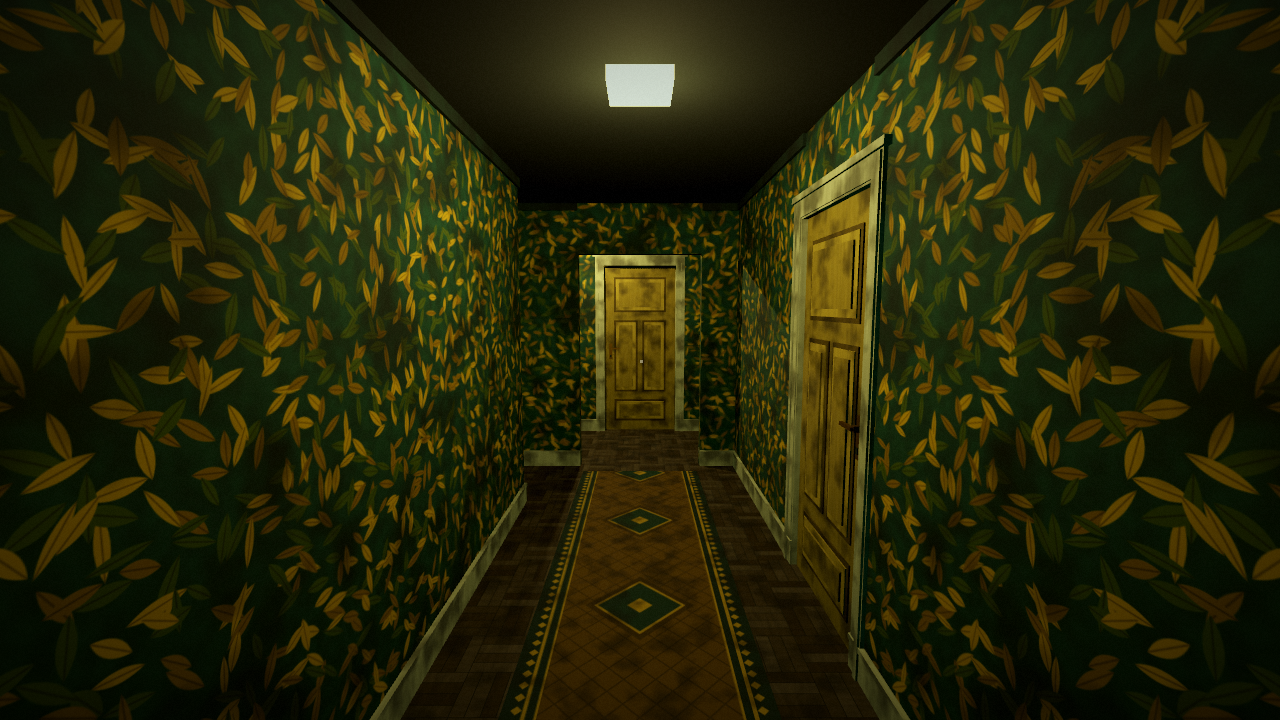
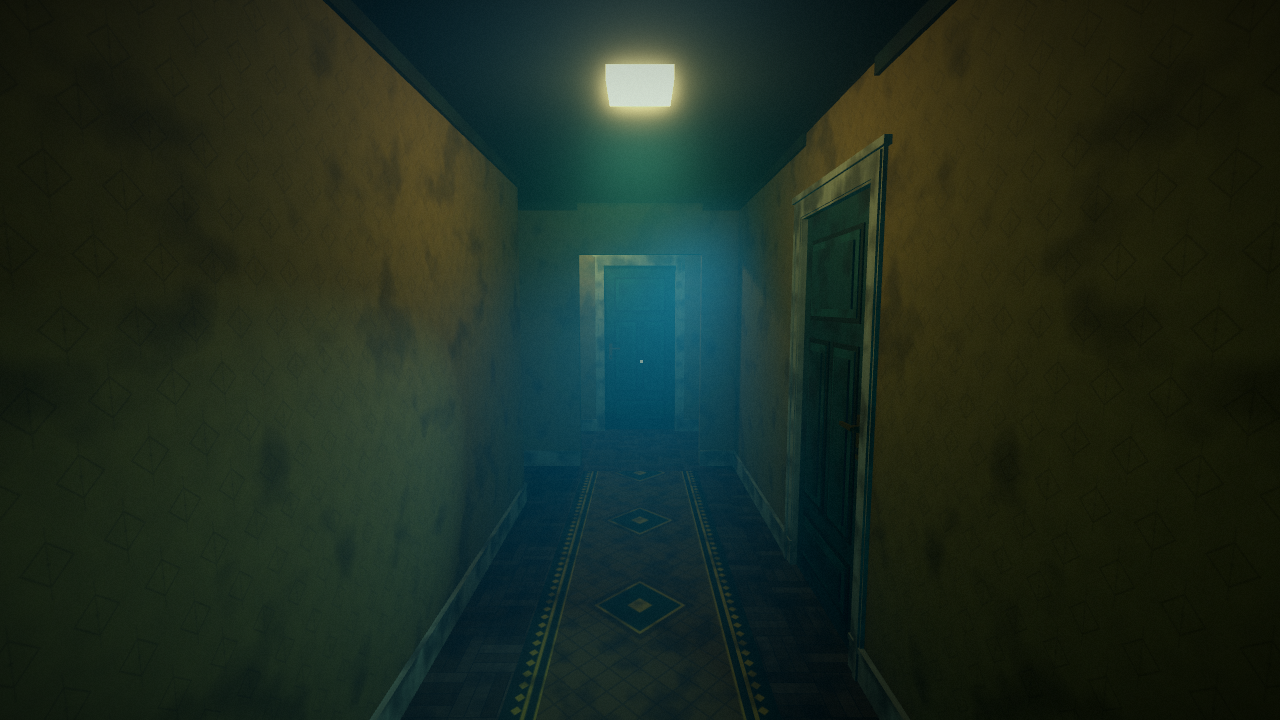
art: plain wallpaper, teal doors, volumetric haze, light shafts, glow and SSAO

diff --git a/docs/DecisionLog.md b/docs/DecisionLog.md
@@ -22,6 +22,7 @@ Durumlar: **Onaylı** (proje sahibi onayladı) · **Varsayım** (itiraz gelene k
 | K-011 | 2026-11-16 | **Melez sunum: koridorlar 3D, odalar 2D.** Oyuncu giriş holü, hol, merdiven, sahanlık ve üst koridorda birinci şahıs yürür. Bir odanın kapısıyla etkileşince oda, çizilmiş 2D bir sahne olarak açılır; karakterler ve değişen eşyalar bu sahnenin üstüne katman olarak eklenir. Karakterler 2D çizimdir. **Özgün spesifikasyonun "tam 3D, 2D oda yok, 2D portre yok" maddelerinin (bölüm 20, 60, 75) yerini alır.** K-008, K-009'un karakter kısmı, K-010 ve V-016 geçersizdir. | Proje sahibinin kararı: hedeflenen görünüme 2D ile ulaşmak mümkün, 3D karakter ve oda üretimi tek kişi için fazla ağır. |
 | K-012 | 2026-11-16 | **Renk teması:** koyu, kirli yeşil ve hafif turkuaz; vurgu olarak kirli sarı. Görüntü net ve doygun; ağır pikselleşme yok. | Proje sahibinin referans görselleri ve tarifi. |
 | K-013 | 2026-11-16 | **Görüntü pürüzsüzdür; pikselli/PS1 görünümü yok.** Dokular yüksek çözünürlüklü (512–1024) ve yumuşak süzmeli; ekran pikselleştirmesi ve renk kademelenmesi kapalı; kenar yumuşatma açık. Kapı, kasa, süpürgelik gibi ayrıntılar gerçek çıkıntılı geometridir. Özgün spesifikasyonun "PS1/düşük çözünürlüklü doku" maddelerinin (bölüm 20, 26) yerini alır. | Proje sahibi iki kez pikselli görünümü reddetti; referans görselleri pürüzsüz. |
+| K-014 | 2026-11-16 | **Atmosfer ışıkla kurulur, desenle değil.** Duvarlar tek renk ya da çok sade desenli; görünümü turkuaz hacimli sis, ışık huzmeleri, yumuşak gölgeler ve zayıf sıcak lambalar taşır. Uygulanan palet: kirli sarı duvar, koyu turkuaz kapı, turkuaz pus (K-012 ile uyumlu). | Proje sahibinin üçüncü referans görseli ve tarifi. |
 
 ## Varsayımlar
 

diff --git a/docs/ArtBible.md b/docs/ArtBible.md
@@ -28,7 +28,9 @@ Bu yapı sayesinde aynı oda görseli, içine kim girerse girsin ve ne değişir
 
 Koddan kurulur (`scripts/house/house_builder.gd`). Dokular `assets/textures/` altında PNG dosyalarıdır; şimdilik `scripts/art/texture_generator.gd` üretir. Aynı adla boyanmış bir doku koyulursa oyun onu kullanır.
 
-Mevcut öğeler: yaprak desenli yeşil duvar kâğıdı, çıkıntılı süpürgelik ve tavan altı koyu çıta, koyu parke, kademeli panelli kirli sarı kapılar, kademeli kapı kasaları, pirinç kapı kolları, desenli yolluk halı, düz tavan lambaları.
+Mevcut öğeler: sade, kirli sarı duvar kâğıdı (çok silik baklava deseni), çıkıntılı süpürgelik ve tavan altı koyu çıta, koyu parke, kademeli panelli koyu turkuaz kapılar, soluk kademeli kasalar, pirinç kapı kolları, desenli yolluk halı, tavan lambaları.
+
+**Işık ve atmosfer (proje sahibinin üçüncü referansına göre):** ortam soğuk turkuaz bir pusla doludur ve ışık bu pusun içinde görünür (hacimli sis). Tavan lambaları zayıf, sıcak ışık adacıkları yapar; her katta pusun içinden geçen soğuk bir ışık huzmesi vardır. Yumuşak gölge, köşelerde temas gölgesi ve parlak yüzeylerde hafif parlama açıktır. Duvarlar sade tutulur; görünümü taşıyan şey desen değil ışıktır.
 
 Eksikler: gerçek basamaklı merdiven, pencere, koridor eşyaları (portmanto, ayna, telefon sehpası), kapı açılma sesi ve geçiş efekti.
 
